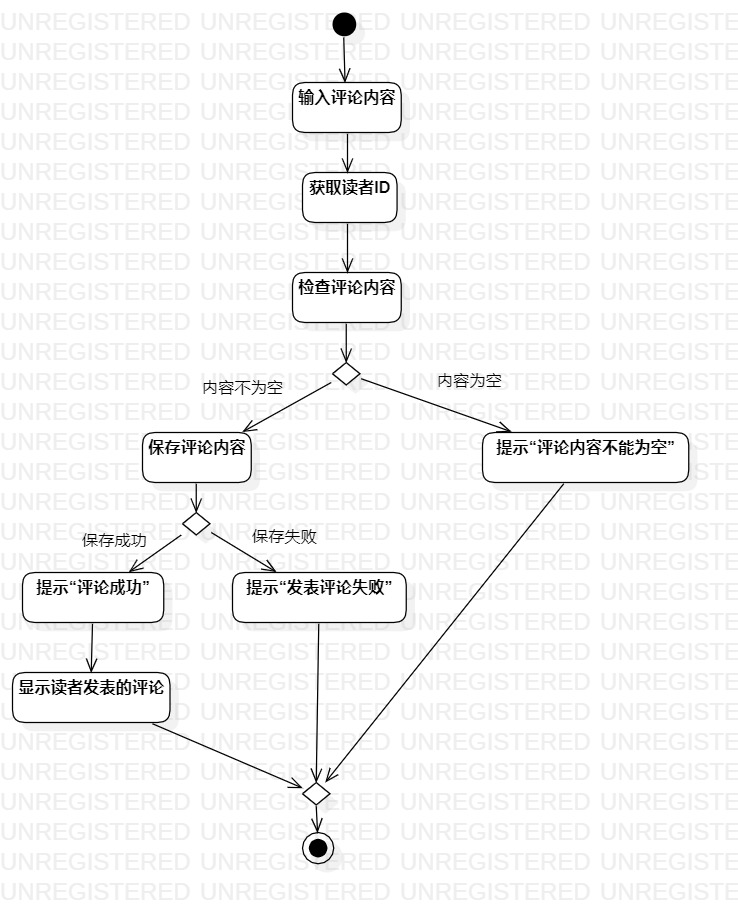
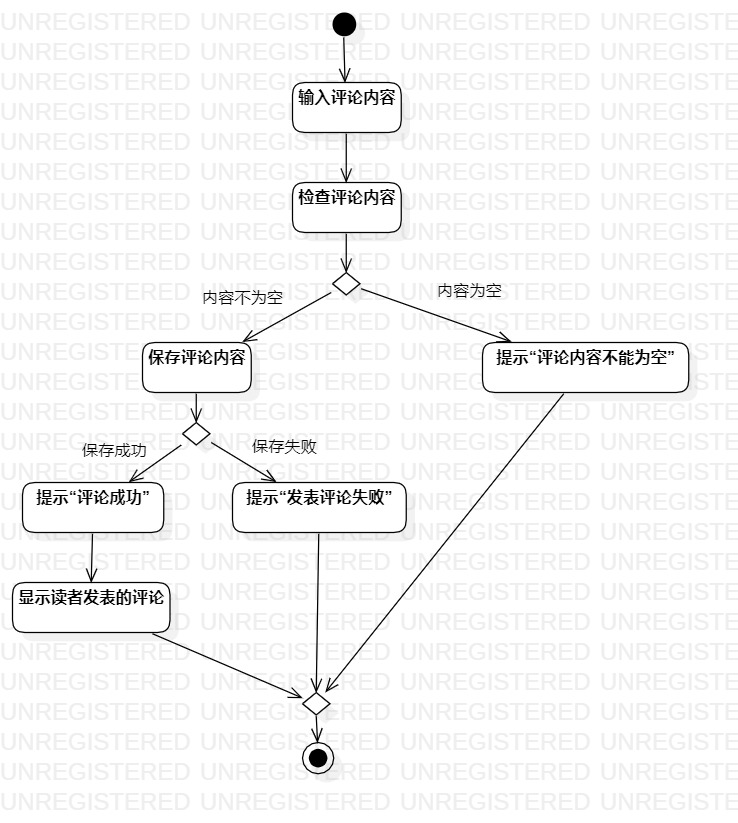
#3 #475 修改实验三

diff --git a/students/1714080902533/lab2.md b/students/1714080902533/lab2.md
@@ -58,10 +58,9 @@ https://github.com/hzuapps/uml-modeling-2020/issues
 用例名称  | 评论新闻 |   
 前置条件  | 读者已登录 |
 后置条件  | 评论区显示读者发表的评论 |    
-基本流程  | 1. 读者输入评论内容，点击“发表评论”按钮 |    
-~| 2. 系统获取读者ID |
-~| 3. 系统检查评论内容 |
-~| 4. 系统保存评论内容，提示“评论成功” |
-~| 5. 页面显示读者发表的评论 |   
-扩展流程  | 3.1 系统发现评论内容为空，提示“评论内容不能为空” |
-~| 4.1 系统保存评论内容失败，提示“发表评论失败” | 新闻被删除导致评论失败
+基本流程  | 1. 读者输入评论内容，点击“发表评论”按钮 |
+~| 2. 系统检查评论内容 |
+~| 3. 系统保存评论内容，提示“评论成功” |
+~| 4. 页面显示读者发表的评论 |   
+扩展流程  | 2.1 系统发现评论内容为空，提示“评论内容不能为空” |
+~| 3.1 系统保存评论内容失败，提示“发表评论失败” | 新闻被删除导致评论失败
